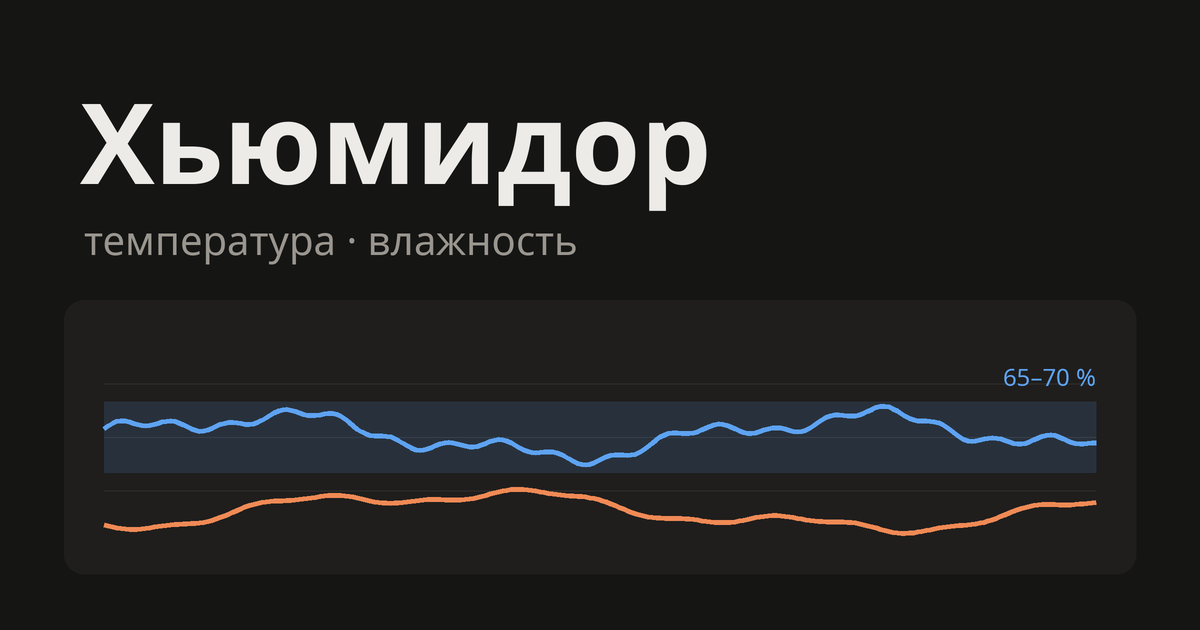
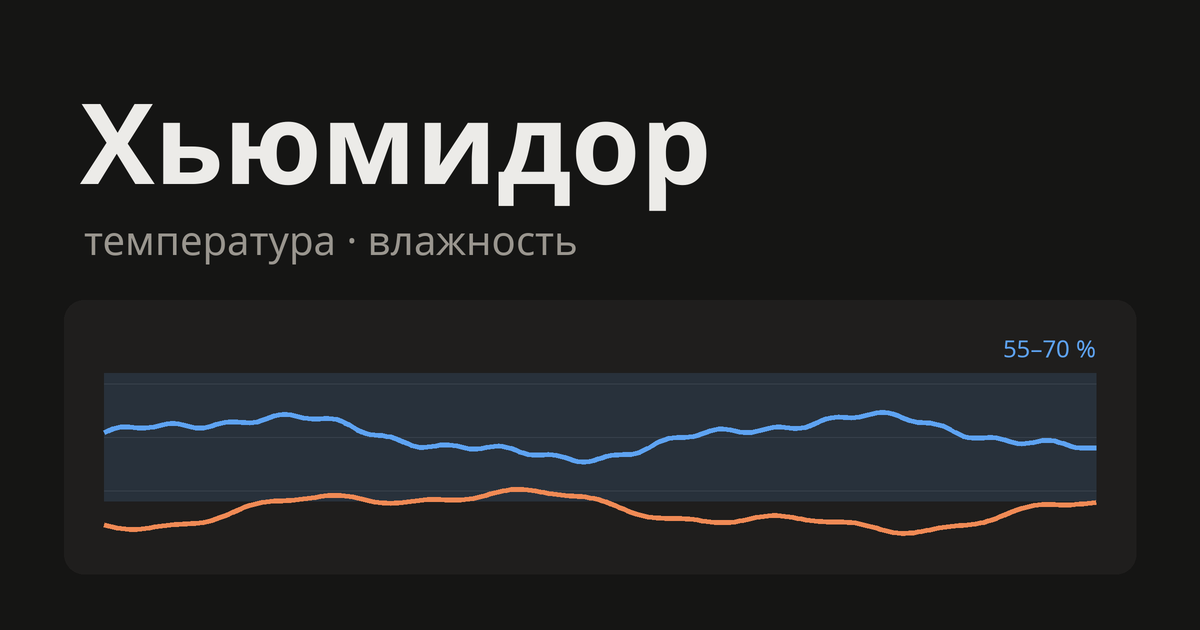
feat: restore on bare-pve after cluster rebuild
- add scripts/db-restore.sh (db + env files from backup, integrity check in CT)
- host-setup: fetch AR3012 firmware only if the chip is present, wait for bluetoothd
- default PVE_HOST to bare-pve, update README
- set alert defaults to RH 55-70 % and T > 27 °C, web band 55-70

Changed region(s): [[0.0617, 0.5429, 0.925, 0.8143]]

diff --git a/packages/core/src/config.ts b/packages/core/src/config.ts
@@ -47,11 +47,11 @@ export function telegramConfig() {
 
 export function thresholdsConfig() {
   return {
-    humLow: num('HUM_LOW', 62),
-    humHigh: num('HUM_HIGH', 73),
+    humLow: num('HUM_LOW', 55),
+    humHigh: num('HUM_HIGH', 70),
     humHyst: num('HUM_HYST', 1.5),
     humForMs: num('HUM_FOR_MIN', 30) * 60_000,
-    tempHigh: num('TEMP_HIGH', 25),
+    tempHigh: num('TEMP_HIGH', 27),
     tempHyst: num('TEMP_HYST', 0.5),
     tempForMs: num('TEMP_FOR_MIN', 15) * 60_000,
     staleMs: num('STALE_MIN', 15) * 60_000,
@@ -61,7 +61,7 @@ export function thresholdsConfig() {
 }
 
 export function webConfig() {
-  const band = (process.env.WEB_RH_BAND || '65,70').split(',').map((s) => Number(s.trim()));
+  const band = (process.env.WEB_RH_BAND || '55,70').split(',').map((s) => Number(s.trim()));
   const [lo, hi] = band;
   if (band.length !== 2 || !Number.isFinite(lo) || !Number.isFinite(hi) || lo! >= hi!) {
     throw new Error(`env WEB_RH_BAND must be "low,high", got "${process.env.WEB_RH_BAND}"`);

diff --git a/services/web/public/index.html b/services/web/public/index.html
@@ -16,7 +16,7 @@
   <meta property="og:image" content="%PUBLIC_URL%/og.png">
   <meta property="og:image:width" content="1200">
   <meta property="og:image:height" content="630">
-  <meta property="og:image:alt" content="Хьюмидор: график температуры и влажности с коридором 65–70 %">
+  <meta property="og:image:alt" content="Хьюмидор: график температуры и влажности с коридором 55–70 %">
   <meta property="og:locale" content="ru_RU">
   <meta name="twitter:card" content="summary_large_image">
   <meta name="theme-color" content="#f6f5f2" media="(prefers-color-scheme: light)">

diff --git a/scripts/og-image.py b/scripts/og-image.py
@@ -54,17 +54,17 @@ def main() -> None:
         y = py0 + (py1 - py0) * i / 4
         d.line((s(px0), s(y), s(px1), s(y)), fill=GRID, width=s(1))
 
-    # шкала RH 60–75 %, коридор 65–70 %
+    # шкала RH 50–75 %, коридор 55–70 %
     def rh_y(v: float) -> float:
-        return py1 - (v - 60) / 15 * (py1 - py0)
+        return py1 - (v - 50) / 25 * (py1 - py0)
 
-    d.rectangle((s(px0), s(rh_y(70)), s(px1), s(rh_y(65))), fill=BAND)
-    d.text((s(px1), s(rh_y(70) - 8)), '65–70 %', font=small, fill=HUM, anchor='rd')
+    d.rectangle((s(px0), s(rh_y(70)), s(px1), s(rh_y(55))), fill=BAND)
+    d.text((s(px1), s(rh_y(70) - 8)), '55–70 %', font=small, fill=HUM, anchor='rd')
 
     # стилизованные ряды: детерминированная сумма синусоид
     n = 240
     xs = [px0 + (px1 - px0) * i / (n - 1) for i in range(n)]
-    hum = [67.6 + 1.3 * math.sin(i / 23) + 0.6 * math.sin(i / 7.3 + 1) + 0.25 * math.sin(i / 2.1) for i in range(n)]
+    hum = [62.5 + 2.2 * math.sin(i / 23) + 0.6 * math.sin(i / 7.3 + 1) + 0.25 * math.sin(i / 2.1) for i in range(n)]
     temp = [py0 + 180 + 16 * math.sin(i / 31 + 2) + 7 * math.sin(i / 9.7) + 2 * math.sin(i / 3.3) for i in range(n)]
 
     d.line([(s(x), s(y)) for x, y in zip(xs, temp)], fill=TEMP, width=s(5), joint='curve')
